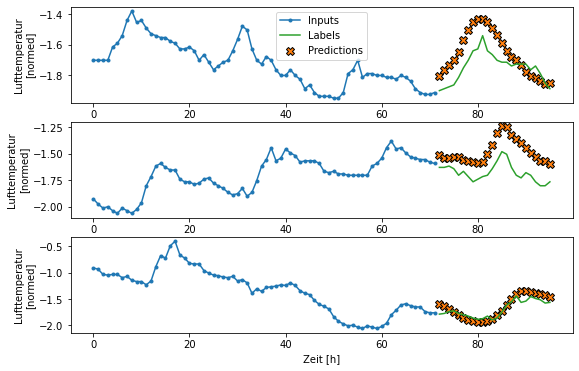
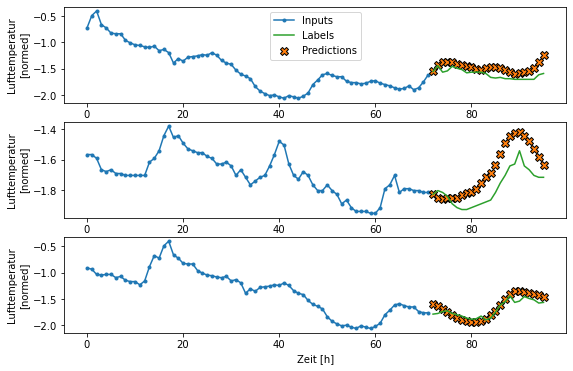
plots in readme

diff --git a/README.md b/README.md
@@ -28,7 +28,13 @@ This is currently handled in the notebook `01-explore&prep.ipynb` in the noteboo
 The files are written to seperate `train`, `val` and `test` folders within `data/processed`.
 
 ### 4. Model training
-A first example of training an LSTM model is provided in the notebook `02-train.ipynb`.
+A first example of training an LSTM model is provided in the notebook `02-train.ipynb`.  
+#### Current model architecture
+![Model architecture](plots/forecast_model_architecture.png)
+
+#### Model output  
+![Results](plots/forecast_output.png)
+
 
 ## Sources
 * TensorFlow's 
